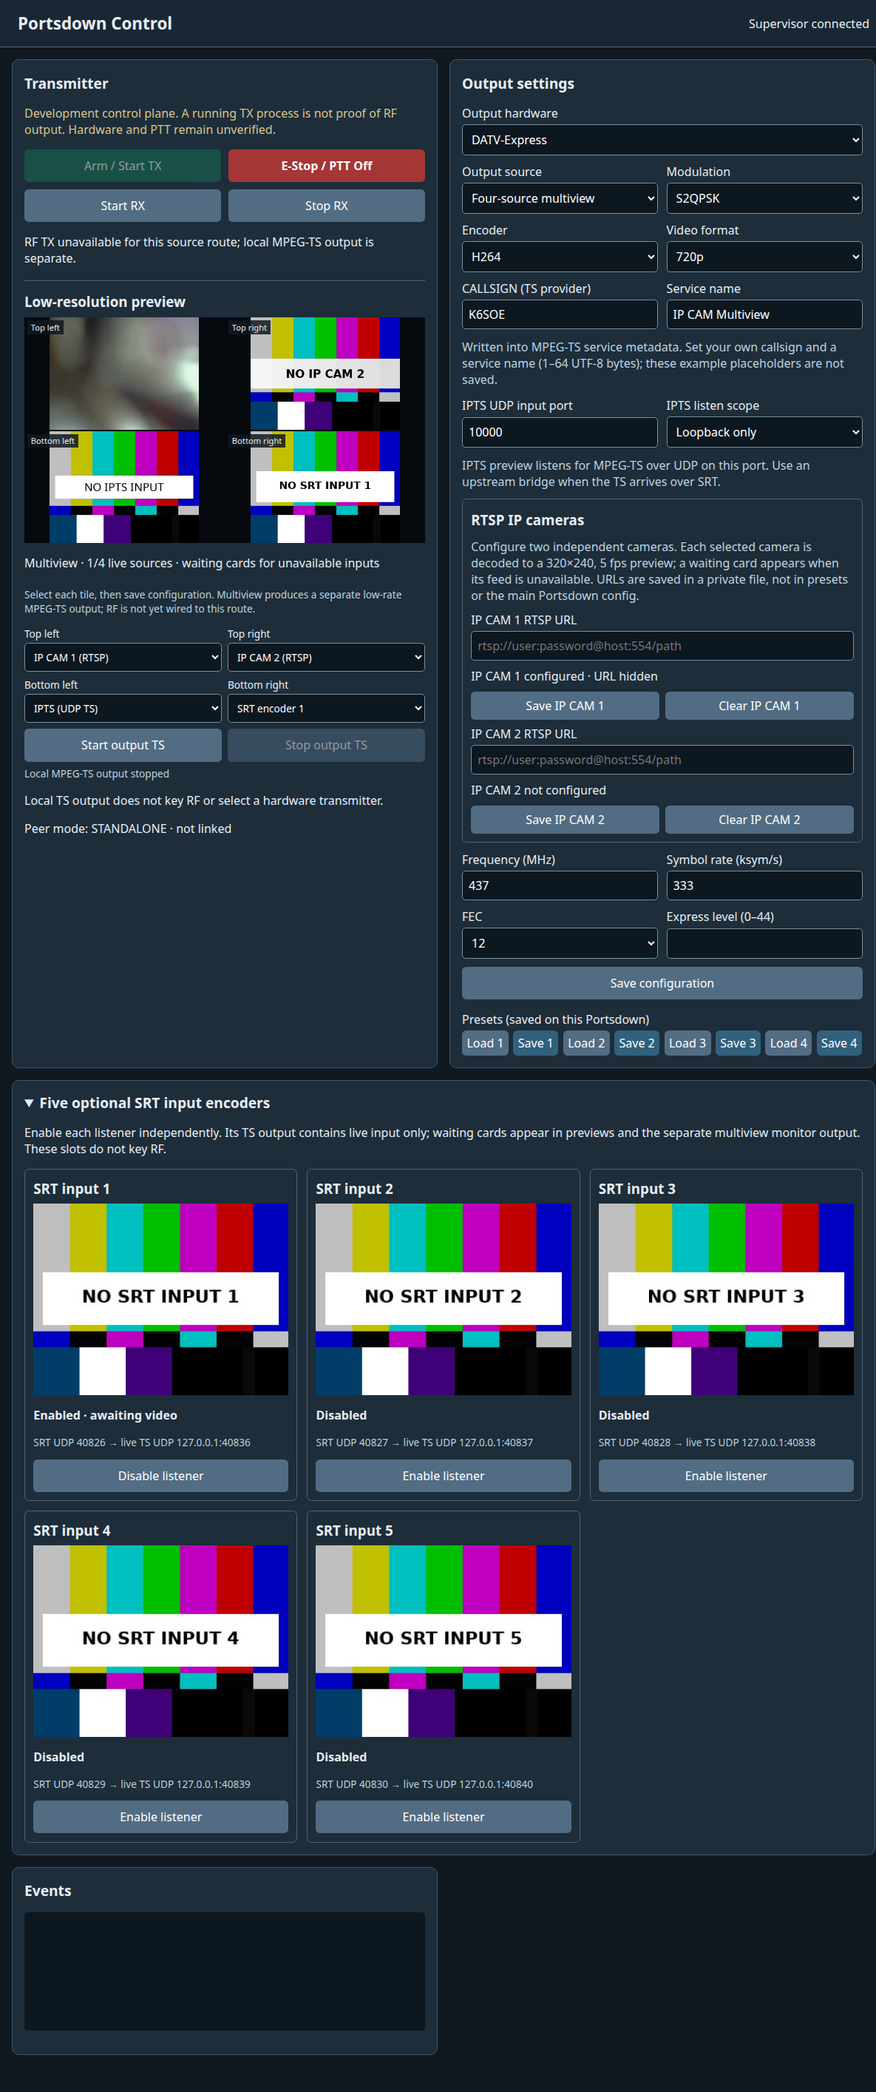
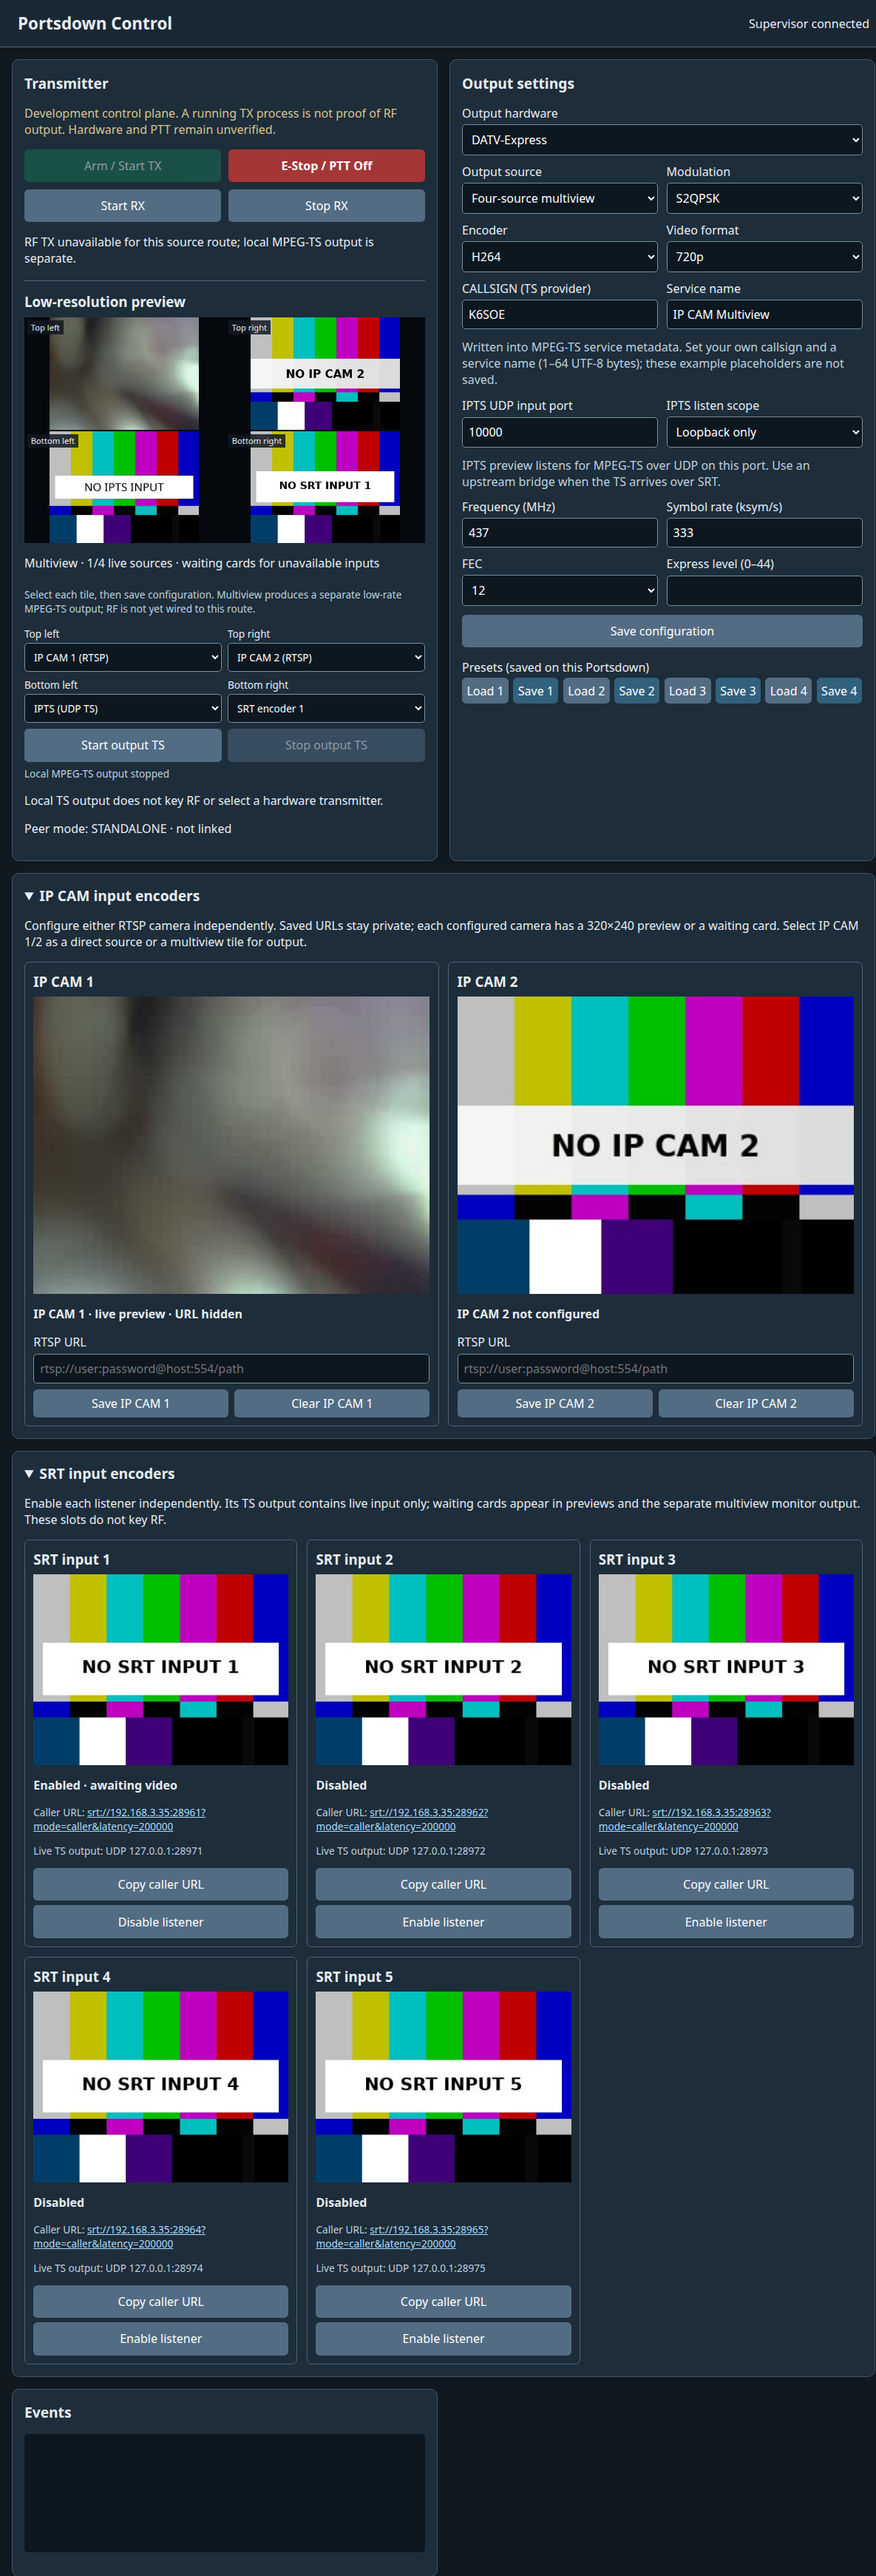
Add IP camera input cards and advertised SRT caller URLs

diff --git a/www/app.js b/www/app.js
@@ -7,6 +7,7 @@ let capabilities = {}, current = {};
 let logInitialized = false;
 let srtLocked = false;
 let lastState = null;
+let ipcamConfigured = {1:false, 2:false};
 const multiviewOptions = [
   ['HDMI','Elgato HDMI'],['CAMH264','Pi Camera'],['IPTSIN','IPTS (UDP TS)'],
   ['IPCAM1','IP CAM 1 (RTSP)'],['IPCAM2','IP CAM 2 (RTSP)'],
@@ -34,10 +35,21 @@ async function api(path, method='GET', data) {
 }
 async function refreshIpCamStatus() {
   try {
-    const saved = (await api('/api/ipcam')).configured;
-    for (let n=1;n<=2;n++) $('ipcam-status-'+n).textContent =
-      saved[String(n)] ? `IP CAM ${n} configured · URL hidden` : `IP CAM ${n} not configured`;
+    ipcamConfigured = (await api('/api/ipcam')).configured;
+    if (lastState) showIpCam(lastState);
   } catch { for (let n=1;n<=2;n++) $('ipcam-status-'+n).textContent = 'Camera configuration unavailable'; }
+}
+function showIpCam(state) {
+  for (let n=1;n<=2;n++) {
+    const configured = !!ipcamConfigured[String(n)];
+    const live = configured && !!state.sources?.[`IPCAM${n}`]?.preview?.producer;
+    const image = $(`ipcam-live-${n}`);
+    if (configured && !image.getAttribute('src')) image.src = `/api/video/source/ipcam${n}`;
+    if (!configured && image.getAttribute('src')) image.removeAttribute('src');
+    $(`ipcam-placeholder-${n}`).hidden = live;
+    $(`ipcam-status-${n}`).textContent = !configured ? `IP CAM ${n} not configured` :
+      live ? `IP CAM ${n} · live preview · URL hidden` : `IP CAM ${n} · awaiting video · URL hidden`;
+  }
 }
 function choices(id, items, selected) {
   $(id).replaceChildren(...items.map(([value,label]) => {
@@ -90,7 +102,6 @@ function refreshSourceFields() {
   const hdmi = multi ? selected.includes('HDMI') : $('modeinput').value === 'HDMI';
   const picam = multi ? selected.includes('CAMH264') : $('modeinput').value === 'CAMH264';
   const ipts = multi ? selected.includes('IPTSIN') : $('modeinput').value.startsWith('IPTSIN');
-  const ipcam = multi ? selected.some(s=>s==='IPCAM1'||s==='IPCAM2') : $('modeinput').value.startsWith('IPCAM');
   $('srt-details').open = multi ? selected.some(s=>s.startsWith('SRT')) : $('modeinput').value === 'SRT';
   for (const el of document.querySelectorAll('.direct-only')) el.hidden = multi;
   for (const el of document.querySelectorAll('.srt-direct-only')) el.hidden = multi || $('modeinput').value !== 'SRT';
@@ -102,7 +113,6 @@ function refreshSourceFields() {
   for (const el of document.querySelectorAll('.hdmi-only')) el.hidden = !hdmi;
   for (const el of document.querySelectorAll('.picam-only')) el.hidden = !picam;
   for (const el of document.querySelectorAll('.ipts-only')) el.hidden = !ipts;
-  for (const el of document.querySelectorAll('.ipcam-only')) el.hidden = !ipcam;
   $('expresshdmidevice').required = hdmi;
   const route = $('route-summary');
   route.hidden = !(hdmi && $('modeoutput').value === 'DEKTEC_ASI');
@@ -198,6 +208,7 @@ function showState(state) {
     ? `TX disabled: configured ${state.board} does not match supervisor ${supervisorBoard || 'unavailable'}.`
     : supervisorStatus || state.supervisor?.message || 'Unknown';
   updatePreview(state);
+  showIpCam(state);
   $('peer-status').textContent = `${state.peer_role || 'STANDALONE'} · ${state.peer?.connected ? 'linked' : 'not linked'}${state.peer?.config_ready ? ' · config ready' : ''}`;
   if (!logInitialized && state.logs) {
     $('log').textContent = state.logs.join('\n');
@@ -241,14 +252,23 @@ function showSrt(slots) {
     if (!slot.enabled && live.getAttribute('src')) live.removeAttribute('src');
     placeholder.hidden = !!slot.live;
     status.textContent = !slot.enabled ? 'Disabled' : slot.live ? 'Live SRT video' : 'Enabled · awaiting video';
-    $(`srt-meta-${n}`).textContent = `SRT UDP ${slot.srt_port} → live TS UDP 127.0.0.1:${slot.ts_port}`;
+    const link = $(`srt-url-${n}`);
+    link.textContent = slot.caller_url || 'LAN address unavailable';
+    if (slot.caller_url) link.href = slot.caller_url;
+    else link.removeAttribute('href');
+    $(`srt-copy-${n}`).disabled = !slot.caller_url;
+    $(`srt-meta-${n}`).textContent = `Live TS output: UDP 127.0.0.1:${slot.ts_port}`;
   }
 }
 for (let n=1;n<=5;n++) {
   const card=document.createElement('article');
   card.className='srt-card';
-  card.innerHTML=`<h3>SRT input ${n}</h3><div class="preview"><img id="srt-live-${n}" alt="Live SRT input ${n} preview"><img id="srt-placeholder-${n}" class="placeholder" src="/no-srt-input-${n}.jpg" alt="NO SRT INPUT ${n} test pattern"></div><p id="srt-status-${n}" class="status" role="status">Disabled</p><p id="srt-meta-${n}" class="meta"></p><button id="srt-toggle-${n}" type="button">Enable listener</button>`;
+  card.innerHTML=`<h3>SRT input ${n}</h3><div class="preview"><img id="srt-live-${n}" alt="Live SRT input ${n} preview"><img id="srt-placeholder-${n}" class="placeholder" src="/no-srt-input-${n}.jpg" alt="NO SRT INPUT ${n} test pattern"></div><p id="srt-status-${n}" class="status" role="status">Disabled</p><p class="meta">Caller URL: <a id="srt-url-${n}"></a></p><p id="srt-meta-${n}" class="meta"></p><button id="srt-copy-${n}" type="button">Copy caller URL</button><button id="srt-toggle-${n}" type="button">Enable listener</button>`;
   $('srt-slots').append(card);
+  $(`srt-copy-${n}`).addEventListener('click', async () => {
+    try { await navigator.clipboard.writeText($(`srt-url-${n}`).textContent); log(`SRT ${n} caller URL copied`); }
+    catch { log(`SRT ${n}: clipboard unavailable; select the displayed URL to copy it`); }
+  });
   $(`srt-toggle-${n}`).addEventListener('click', async () => {
     const action=$(`srt-toggle-${n}`).dataset.enabled==='1'?'disable':'enable';
     try { await api(`/api/srt/${n}/${action}`,'POST'); showSrt((await api('/api/srt')).slots); }

diff --git a/www/index.html b/www/index.html
@@ -62,16 +62,6 @@
         <label class="ipts-only" hidden>IPTS UDP input port<input id="ipts_input_port" type="number" min="1024" max="65535" step="1" value="10000"></label>
         <label class="ipts-only" hidden>IPTS listen scope<select id="ipts_bind_scope"><option value="LOCAL">Loopback only</option><option value="LAN">LAN interfaces</option></select></label>
         <p class="ipts-only hdmi-note" hidden>IPTS preview listens for MPEG-TS over UDP on this port. Use an upstream bridge when the TS arrives over SRT.</p>
-        <div class="ipcam-only wide" hidden>
-          <h3>RTSP IP cameras</h3>
-          <p class="hdmi-note">Configure two independent cameras. Each selected camera is decoded to a 320×240, 5 fps preview; a waiting card appears when its feed is unavailable. URLs are saved in a private file, not in presets or the main Portsdown config.</p>
-          <label>IP CAM 1 RTSP URL<input id="ipcam-url-1" type="text" inputmode="url" placeholder="rtsp://user:password@host:554/path" autocomplete="off" spellcheck="false"></label>
-          <p id="ipcam-status-1" role="status">IP CAM 1 not configured</p>
-          <div class="multiview-actions"><button id="ipcam-save-1" type="button">Save IP CAM 1</button><button id="ipcam-clear-1" type="button">Clear IP CAM 1</button></div>
-          <label>IP CAM 2 RTSP URL<input id="ipcam-url-2" type="text" inputmode="url" placeholder="rtsp://user:password@host:554/path" autocomplete="off" spellcheck="false"></label>
-          <p id="ipcam-status-2" role="status">IP CAM 2 not configured</p>
-          <div class="multiview-actions"><button id="ipcam-save-2" type="button">Save IP CAM 2</button><button id="ipcam-clear-2" type="button">Clear IP CAM 2</button></div>
-        </div>
         <p id="route-summary" class="route-summary" hidden></p>
         <label class="rf-only">Frequency (MHz)<input id="freqoutput" type="number" step="0.001" required></label>
         <label class="rf-only">Symbol rate (ksym/s)<input id="symbolrate" type="number" step="1" required></label>
@@ -91,9 +81,31 @@
         <div id="presets"></div>
       </div>
     </section>
+    <section class="ipcam-section">
+      <details id="ipcam-details" open>
+      <summary>IP CAM input encoders</summary>
+      <p>Configure either RTSP camera independently. Saved URLs stay private; each configured camera has a 320×240 preview or a waiting card. Select IP CAM 1/2 as a direct source or a multiview tile for output.</p>
+      <div class="ipcam-grid">
+        <article class="ipcam-card">
+          <h3>IP CAM 1</h3>
+          <div class="preview"><img id="ipcam-live-1" alt="Live IP CAM 1 preview"><img id="ipcam-placeholder-1" class="placeholder" src="/no-ipcam1-input.jpg" alt="NO IP CAM 1 INPUT test pattern"></div>
+          <p id="ipcam-status-1" class="status" role="status">IP CAM 1 not configured</p>
+          <label>RTSP URL<input id="ipcam-url-1" type="text" inputmode="url" placeholder="rtsp://user:password@host:554/path" autocomplete="off" spellcheck="false"></label>
+          <div class="multiview-actions"><button id="ipcam-save-1" type="button">Save IP CAM 1</button><button id="ipcam-clear-1" type="button">Clear IP CAM 1</button></div>
+        </article>
+        <article class="ipcam-card">
+          <h3>IP CAM 2</h3>
+          <div class="preview"><img id="ipcam-live-2" alt="Live IP CAM 2 preview"><img id="ipcam-placeholder-2" class="placeholder" src="/no-ipcam2-input.jpg" alt="NO IP CAM 2 INPUT test pattern"></div>
+          <p id="ipcam-status-2" class="status" role="status">IP CAM 2 not configured</p>
+          <label>RTSP URL<input id="ipcam-url-2" type="text" inputmode="url" placeholder="rtsp://user:password@host:554/path" autocomplete="off" spellcheck="false"></label>
+          <div class="multiview-actions"><button id="ipcam-save-2" type="button">Save IP CAM 2</button><button id="ipcam-clear-2" type="button">Clear IP CAM 2</button></div>
+        </article>
+      </div>
+      </details>
+    </section>
     <section class="srt-section">
       <details id="srt-details" open>
-      <summary>Five optional SRT input encoders</summary>
+      <summary>SRT input encoders</summary>
       <p>Enable each listener independently. Its TS output contains live input only; waiting cards appear in previews and the separate multiview monitor output. These slots do not key RF.</p>
       <div id="srt-slots" class="srt-grid"></div>
       </details>

diff --git a/www/style.css b/www/style.css
@@ -7,6 +7,6 @@ form .hdmi-note,form .route-summary{grid-column:1/-1;margin:.1rem 0;color:#bed2d
 [hidden]{display:none!important}.tx-preview-panel{margin-top:1.2rem;border-top:1px solid #526473;padding-top:.7rem}.tx-preview-panel h3{margin:.2rem 0 .6rem}.multiview{display:grid;grid-template-columns:repeat(2,minmax(0,1fr));aspect-ratio:4/3;background:#05090d;gap:2px}.multiview-tile{position:relative;min-width:0;min-height:0;background:#05090d;overflow:hidden}.multiview-tile img{width:100%;height:100%;object-fit:contain}.multiview-tile .placeholder{position:absolute;inset:0}.multiview-tile span{position:absolute;left:.25rem;top:.25rem;background:#101820d9;padding:.12rem .3rem;font-size:.7rem}.multiview-selectors{display:grid;grid-template-columns:repeat(2,minmax(0,1fr));gap:.5rem}.multiview-selectors p{grid-column:1/-1;color:#bed2df;font-size:.85rem;margin:.4rem 0}.multiview-selectors label{display:grid;gap:.2rem;font-size:.85rem}
 .source-ts-controls{margin-top:.5rem}.multiview-actions{display:grid;grid-template-columns:1fr 1fr;gap:.5rem}#source-ts-status{margin:.4rem 0;font-size:.85rem;color:#bed2df}
 .multiview.wide{aspect-ratio:16/9}
-form .ipcam-only{display:grid;gap:.45rem;border:1px solid #526473;border-radius:.4rem;padding:.7rem}form .ipcam-only h3,form .ipcam-only p{margin:.2rem 0}form .ipcam-only .multiview-actions button{grid-column:auto;padding:.5rem}
+.ipcam-section{grid-column:1/-1}.ipcam-grid{display:grid;grid-template-columns:repeat(auto-fit,minmax(290px,1fr));gap:.8rem}.ipcam-card{border:1px solid #526473;border-radius:.4rem;padding:.7rem}.ipcam-card h3{margin:.1rem 0 .5rem}.ipcam-card .preview{min-height:180px}.ipcam-card .preview img{width:100%;height:auto;aspect-ratio:4/3}.ipcam-card .placeholder{position:absolute;inset:0}.ipcam-card .status{font-weight:bold}.ipcam-card label{display:grid;gap:.3rem;margin:.5rem 0}.ipcam-card button{padding:.5rem}.srt-card .meta{overflow-wrap:anywhere}.srt-card a{color:#a7ddff}.srt-card button+button{margin-top:.4rem}
 main{grid-template-columns:repeat(2,minmax(0,1fr))}@media(max-width:820px){main{grid-template-columns:1fr}}
 details summary{font-size:1.2rem;font-weight:700;cursor:pointer;list-style:revert}details[open] summary{margin-bottom:.9rem}

diff --git a/tests/test_headless_control.py b/tests/test_headless_control.py
@@ -218,6 +218,7 @@ class UcodeTest(unittest.TestCase):
             "PORTSDOWN_HTTP_PORT": str(self.port),
             "PORTSDOWN_MJPEG_PORT": str(self.video_port),
             "PORTSDOWN_SRT_PORT_BASE": str(self.srt_port),
+            "PORTSDOWN_SRT_ADVERTISE_HOST": "192.0.2.55",
             "PORTSDOWN_SRT_TS_PORT_BASE": str(self.ts_port),
             "PORTSDOWN_SRT_MJPEG_PORT_BASE": str(self.srt_preview_port),
             "PORTSDOWN_SOURCE_MJPEG_PORT_BASE": str(self.source_preview_port),
@@ -333,15 +334,22 @@ class UcodeTest(unittest.TestCase):
         self.assertEqual(json.loads(self.request("GET", "/api/ipcam")[1])["configured"],
                          {"1": False, "2": False})
         self.assertEqual(self.request("POST", "/api/ipcam", {"slot": 1, "url": "file:///tmp/video.ts"})[0], 400)
-        self.assertEqual(self.request("POST", "/api/config", {
-            "source_layout": "MULTIVIEW", "multiview_1": "IPCAM1",
-            "multiview_2": "IPCAM2", "multiview_3": "SRT3", "multiview_4": "IPTSIN"})[0], 200)
         urls = {1: "rtsp://user:p%40ss@127.0.0.1:8554/first",
                 2: "rtsp://user:other@127.0.0.1:8554/second"}
         for slot, url in urls.items():
             status, body = self.request("POST", "/api/ipcam", {"slot": slot, "url": url})
             self.assertEqual(status, 200, body)
             self.assertEqual(self.request("GET", f"/no-ipcam{slot}-input.jpg")[0], 200)
+        # Camera cards show waiting previews even when neither camera is selected for output.
+        with socket.create_connection(("127.0.0.1", self.port), timeout=2) as viewer:
+            viewer.settimeout(3)
+            viewer.sendall(f"GET /api/video/source/ipcam1 HTTP/1.1\r\nHost: localhost:{self.port}\r\n\r\n".encode())
+            data = b""
+            while b"\xff\xd9" not in data: data += viewer.recv(8192)
+            self.assertIn((ROOT / "www/no-ipcam1-input.jpg").read_bytes(), data)
+        self.assertEqual(self.request("POST", "/api/config", {
+            "source_layout": "MULTIVIEW", "multiview_1": "IPCAM1",
+            "multiview_2": "IPCAM2", "multiview_3": "SRT3", "multiview_4": "IPTSIN"})[0], 200)
         self.assertEqual(self.ipcam_config.stat().st_mode & 0o777, 0o600)
         self.assertIn(urls[1], self.ipcam_config.read_text())
         for endpoint in ("/api/config", "/api/state", "/api/ipcam"):
@@ -649,6 +657,9 @@ class UcodeTest(unittest.TestCase):
         self.assertEqual(status, 200, body)
         slots = json.loads(body)["slots"]
         self.assertEqual([s["slot"] for s in slots], list(range(1, 6)))
+        self.assertEqual([s["caller_url"] for s in slots], [
+            f"srt://192.0.2.55:{self.srt_port+n}?mode=caller&latency=200000"
+            for n in range(5)])
         self.assertTrue(all(not s["enabled"] and not s["live"] for s in slots))
         status, body = self.request("GET", "/no-srt-input-3.jpg")
         self.assertEqual(status, 200)

diff --git a/doc/headless-ucode-control.md b/doc/headless-ucode-control.md
@@ -21,13 +21,15 @@ tiles have synthetic MJPEG frames, while Pi Camera displays its waiting card.
 No Elgato, Pi Camera, IP transmitter, ASI card, or RF path was used. The GUI
 shows how source-specific settings appear together for a mixed-source layout.
 
-![Real RTSP IP CAM 1 feed in the multiview, with IP CAM 2 and the other sources showing waiting cards](images/headless-web-gui-ipcam-multiview.png)
+![Real RTSP IP CAM 1 feed, dedicated IP CAM input encoder cards, and complete SRT caller links](images/headless-web-gui-ipcam-multiview.png)
 
 This second multiview capture uses a **real LAN RTSP feed** for IP CAM 1
 (profile3: 320×240 MJPEG at 1 fps). IP CAM 2 is selected but unconfigured,
 so its waiting card remains visible; IPTS and SRT are also waiting. The
 camera login URL and password are not displayed or committed. This is a GUI
-preview demonstration, not an RF test.
+preview demonstration, not an RF test. The SRT caller links in this isolated
+capture show the development host's LAN IP and temporary test ports, not
+TANK's production listener ports.
 
 ![Experimental ASI output settings with five enabled SRT input previews](images/headless-web-gui-asi.png)
 
@@ -91,16 +93,21 @@ capture, audio, and RF remain unverified.
   selection is included in presets and Master/Slave configuration. HDMI V4L2
   device, Pi Camera index, IPTS UDP port, and loopback/LAN listen scope appear
   whenever that source type is selected in either direct or multiview mode.
-  Selecting either IP CAM reveals both RTSP URL setup fields. The GUI accepts
+  The separate **IP CAM input encoders** section always shows both RTSP URL
+  controls and independent low-resolution previews, even before either camera
+  is selected as an output source. Saving a URL starts that camera's preview;
+  clearing it returns its card to the waiting pattern. The GUI accepts
   usernames/passwords and percent-encodes special characters in their URL
   components; saved URLs are never returned to the browser. They live in
   `/var/lib/portsdown/ip-cameras.conf` (mode 0600), or the path selected by
   `PORTSDOWN_IPCAM_CONFIG`, not in presets, peer config, or the legacy config.
   Use HTTPS at any reverse proxy for remote GUI access to credential fields.
-  The five SRT listeners remain independently enabled below the main controls.
-- `control/source-preview.sh` runs selected HDMI, Pi Camera, IPTS, and two
-  independent IP CAM previews
-  independently at 320×240/5 fps. HDMI uses the configured V4L2 device, Pi
+  The **SRT input encoders** section keeps five independently enabled listeners
+  below the camera controls and displays a copyable, complete caller URL for
+  each slot.
+- `control/source-preview.sh` runs selected HDMI, Pi Camera, and IPTS previews,
+  plus each configured IP CAM preview, at 320×240/5 fps. HDMI uses the
+  configured V4L2 device, Pi
   Camera uses `rpicam-vid` (or `libcamera-vid`), and IPTS decodes MPEG-TS on
   the configured UDP port. Each RTSP IP CAM uses TCP transport, decodes its
   source raster (including HD/UHD), and scales/pads to 320×240 at 5 fps.
@@ -265,11 +272,16 @@ To make the five software-only SRT listeners available, export
 
 | Slot | SRT caller destination | Live TS output (loopback UDP) | MJPEG preview |
 | --- | --- | --- | --- |
-| 1 | `srt://TANK:9101?mode=caller` | `127.0.0.1:12001` | `/api/video/srt/1` |
-| 2 | `srt://TANK:9102?mode=caller` | `127.0.0.1:12002` | `/api/video/srt/2` |
-| 3 | `srt://TANK:9103?mode=caller` | `127.0.0.1:12003` | `/api/video/srt/3` |
-| 4 | `srt://TANK:9104?mode=caller` | `127.0.0.1:12004` | `/api/video/srt/4` |
-| 5 | `srt://TANK:9105?mode=caller` | `127.0.0.1:12005` | `/api/video/srt/5` |
+| 1 | `srt://<receiver-LAN-IP>:9101?mode=caller&latency=200000` | `127.0.0.1:12001` | `/api/video/srt/1` |
+| 2 | `srt://<receiver-LAN-IP>:9102?mode=caller&latency=200000` | `127.0.0.1:12002` | `/api/video/srt/2` |
+| 3 | `srt://<receiver-LAN-IP>:9103?mode=caller&latency=200000` | `127.0.0.1:12003` | `/api/video/srt/3` |
+| 4 | `srt://<receiver-LAN-IP>:9104?mode=caller&latency=200000` | `127.0.0.1:12004` | `/api/video/srt/4` |
+| 5 | `srt://<receiver-LAN-IP>:9105?mode=caller&latency=200000` | `127.0.0.1:12005` | `/api/video/srt/5` |
+
+The GUI shows a full link using `PORTSDOWN_SRT_ADVERTISE_HOST` when set, or
+the first non-loopback IPv4 from `hostname -I`. On a multi-interface system,
+set the environment value to the IP address reachable from the SRT sender.
+This only changes the displayed link; listeners still bind on all interfaces.
 
 The SRT input accepts a live MPEG-TS carrying video (audio optional). Its
 **IPTS output retains the caller's raster**: synthetic H.264 inputs at
